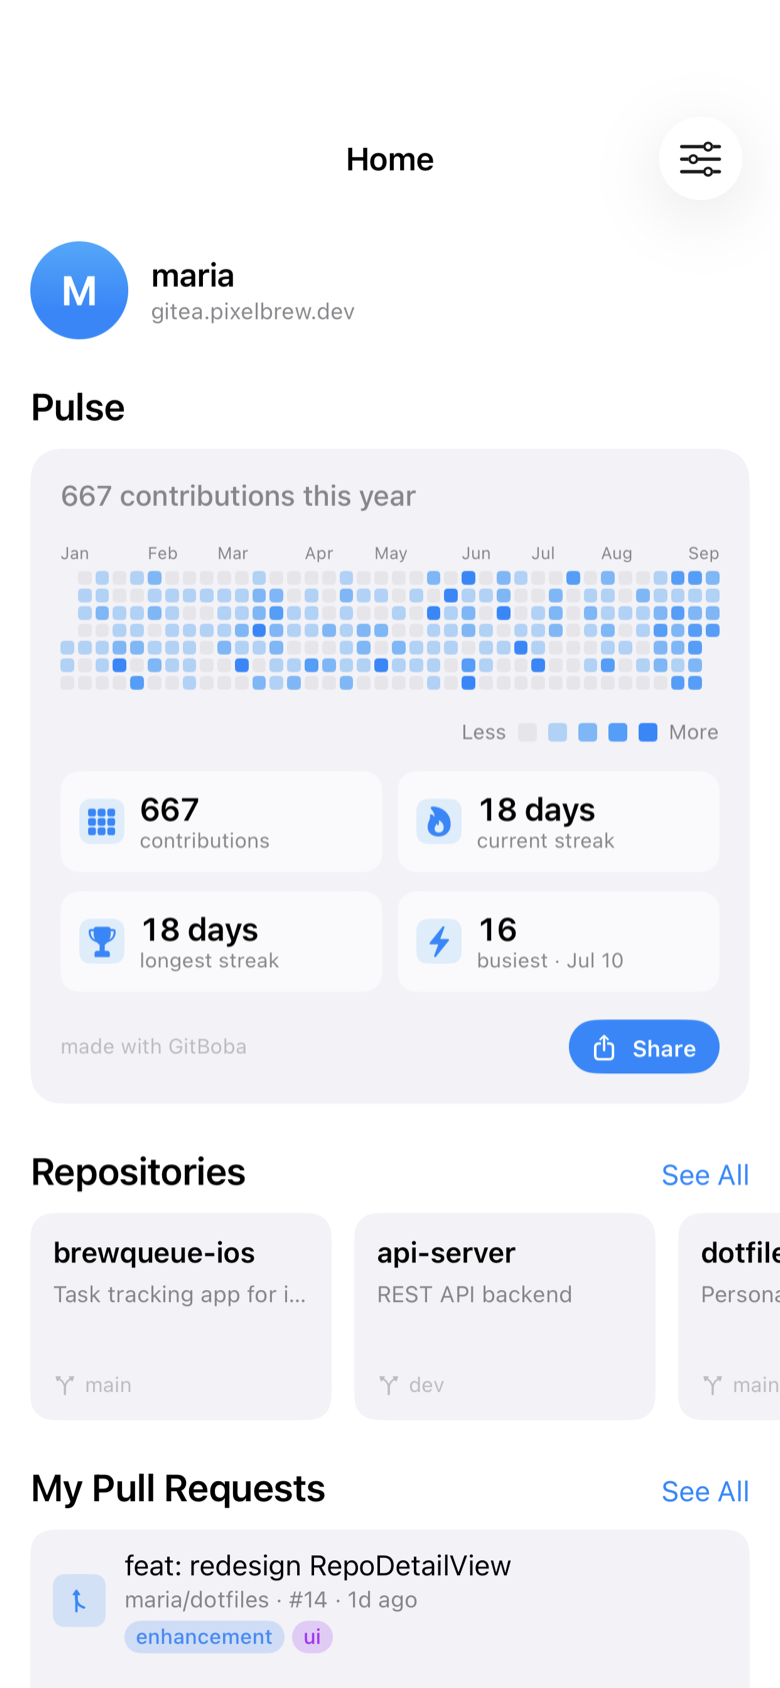
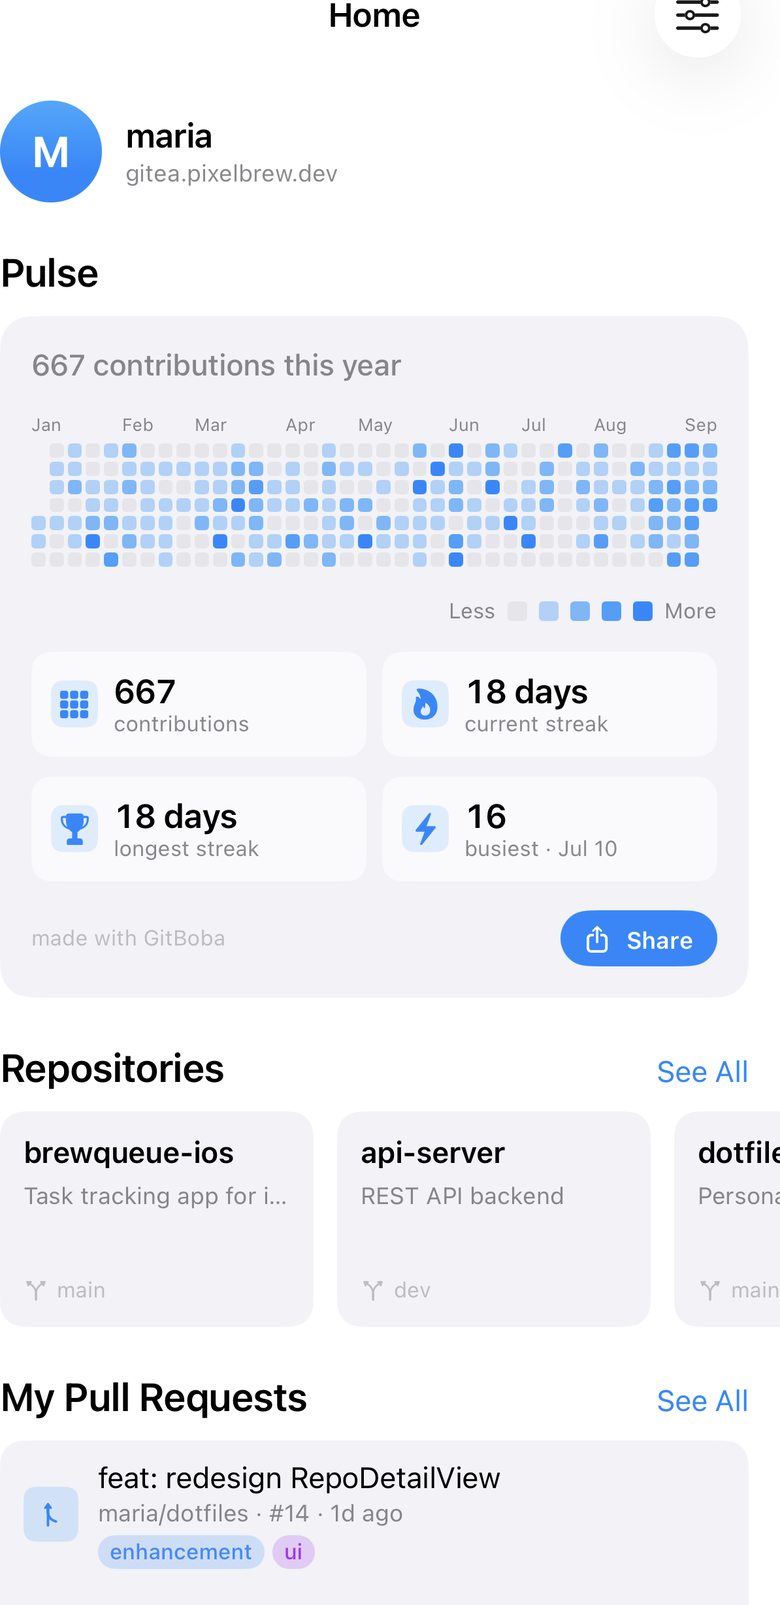
fix: trim letterboxed white bars from site screenshot exports
Use raw GitBobaApp/screenshots with edge trim so showcase images are not a white slab on the dark page.

diff --git a/css/home.css b/css/home.css
@@ -356,6 +356,8 @@
       border-radius: 22px;
       border: 1px solid var(--border);
       box-shadow: 0 32px 64px oklch(0 0 0 / 0.45);
+      background: transparent;
+      vertical-align: middle;
     }
     .showcase-caption {
       font-size: 0.88rem;

diff --git a/scripts/prepare_site_screenshot.py b/scripts/prepare_site_screenshot.py
@@ -1,0 +1,78 @@
+#!/usr/bin/env python3
+"""Resize a raw GitBobaApp screenshot for the marketing site.
+
+Trims letterboxed white bars (common at the top of simulator PNGs) so the
+image doesn't show a white slab on the dark homepage.
+"""
+
+from __future__ import annotations
+
+import argparse
+import sys
+
+try:
+    from PIL import Image
+except ImportError:
+    print("Install Pillow (see generate-og-share.py venv note).", file=sys.stderr)
+    sys.exit(1)
+
+
+def _row_mostly_white(px, w: int, y: int, tol: int, ratio: float) -> bool:
+    white = 0
+    for x in range(w):
+        r, g, b = px[x, y][:3]
+        if r >= 255 - tol and g >= 255 - tol and b >= 255 - tol:
+            white += 1
+    return white / w >= ratio
+
+
+def _col_mostly_white(px, w: int, h: int, x: int, tol: int, ratio: float) -> bool:
+    white = 0
+    for y in range(h):
+        r, g, b = px[x, y][:3]
+        if r >= 255 - tol and g >= 255 - tol and b >= 255 - tol:
+            white += 1
+    return white / h >= ratio
+
+
+def trim_letterbox(im: Image.Image, tol: int = 10, ratio: float = 0.985) -> Image.Image:
+    im = im.convert("RGB")
+    w, h = im.size
+    px = im.load()
+
+    top = 0
+    while top < h and _row_mostly_white(px, w, top, tol, ratio):
+        top += 1
+    bottom = h - 1
+    while bottom > top and _row_mostly_white(px, w, bottom, tol, ratio):
+        bottom -= 1
+    left = 0
+    while left < w and _col_mostly_white(px, w, h, left, tol, ratio):
+        left += 1
+    right = w - 1
+    while right > left and _col_mostly_white(px, w, h, right, tol, ratio):
+        right -= 1
+
+    if left >= right or top >= bottom:
+        return im
+    return im.crop((left, top, right + 1, bottom + 1))
+
+
+def main() -> int:
+    parser = argparse.ArgumentParser(description=__doc__)
+    parser.add_argument("src")
+    parser.add_argument("dst")
+    parser.add_argument("--width", type=int, required=True)
+    args = parser.parse_args()
+
+    im = Image.open(args.src)
+    im = trim_letterbox(im)
+    w, h = im.size
+    out_h = int(h * args.width / w)
+    im = im.resize((args.width, out_h), Image.Resampling.LANCZOS)
+    im.save(args.dst, "PNG", optimize=True)
+    return 0
+
+
+if __name__ == "__main__":
+    raise SystemExit(main())
